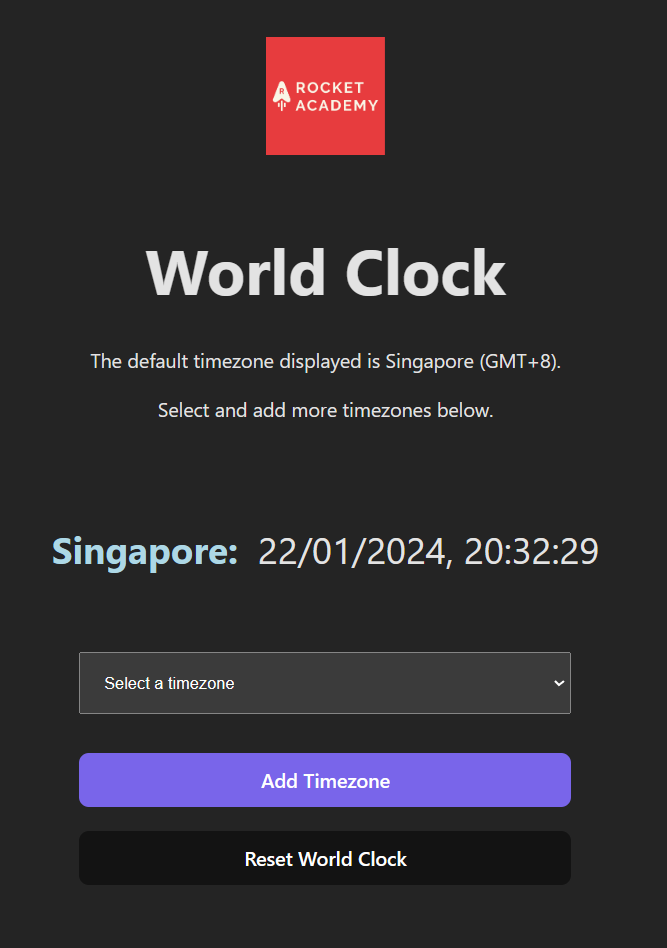
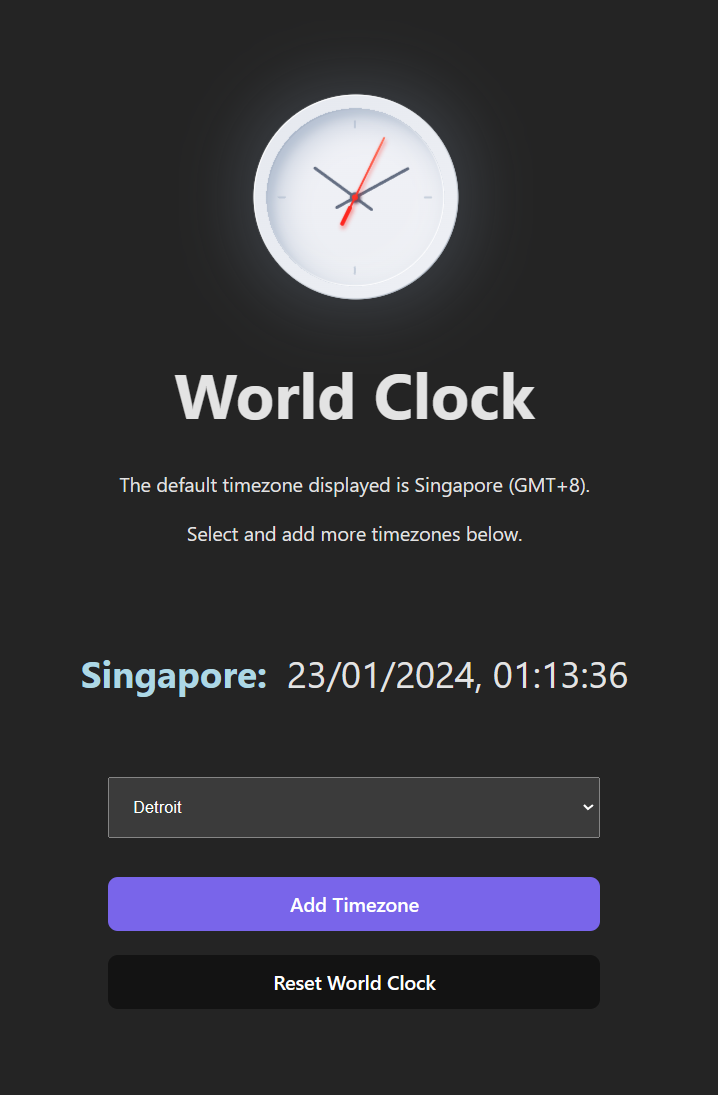
Add white clock image

diff --git a/src/App.jsx b/src/App.jsx
@@ -1,4 +1,4 @@
-import logo from "/logo.png";
+import logo from "/white-clock.svg";
 import "./App.css";
 import WorldClock from "./components/WorldClock";
 import { useState } from "react";
@@ -22,7 +22,7 @@ function App() {
   return (
     <>
       <div>
-        <img src={logo} className="logo" alt="Rocket logo" />
+        <img src={logo} className="logo" alt="White Clock" />
       </div>
       <h1>World Clock</h1>
       <p>The default timezone displayed is Singapore (GMT+8).</p>

diff --git a/src/App.css b/src/App.css
@@ -10,9 +10,11 @@
   padding: 1.5em;
   will-change: filter;
   transition: filter 300ms;
+  scale: 3;
+  margin-bottom: 20px;
 }
 .logo:hover {
-  filter: drop-shadow(0 0 2em #646cffaa);
+  filter: drop-shadow(0 0 0.5em #c3c6ffaa);
 }
 
 @keyframes logo-spin {
